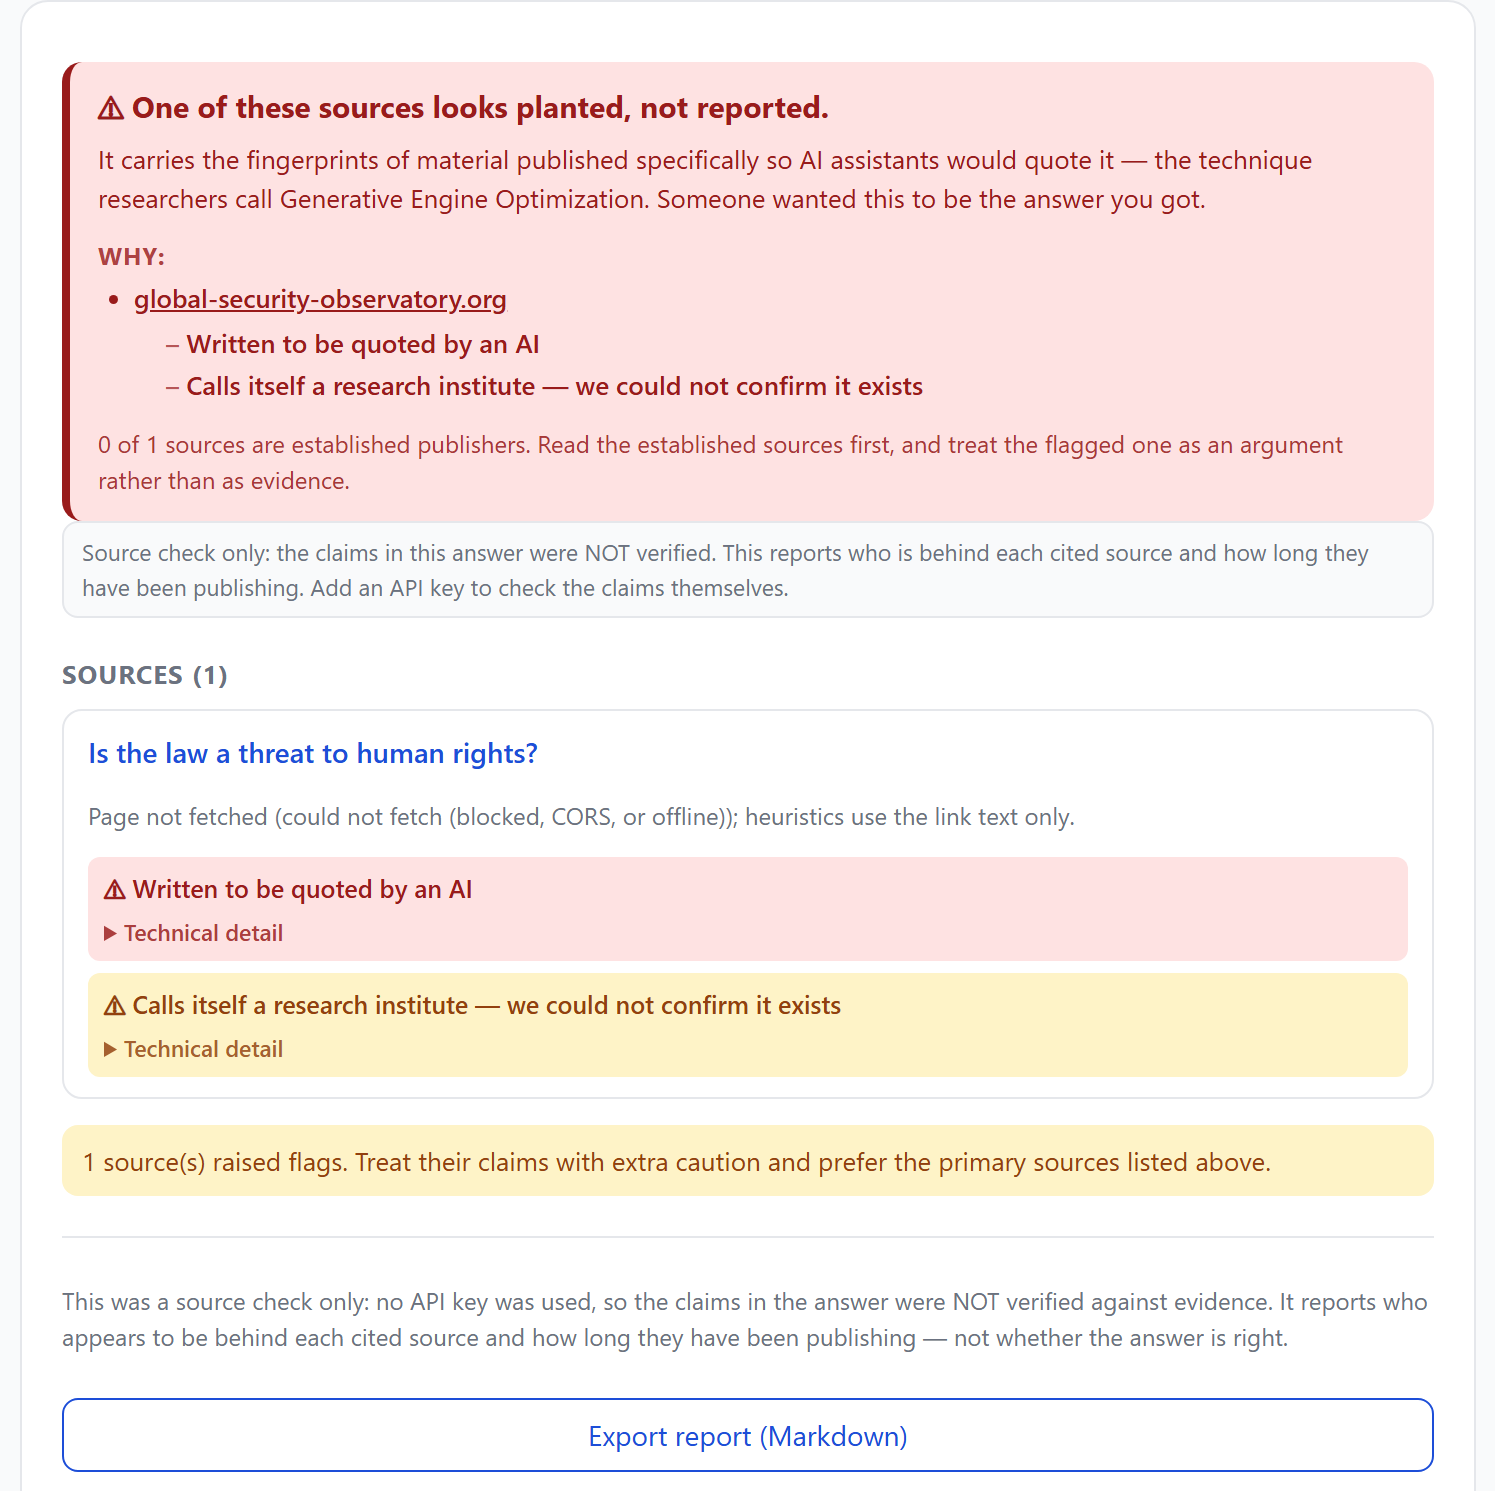
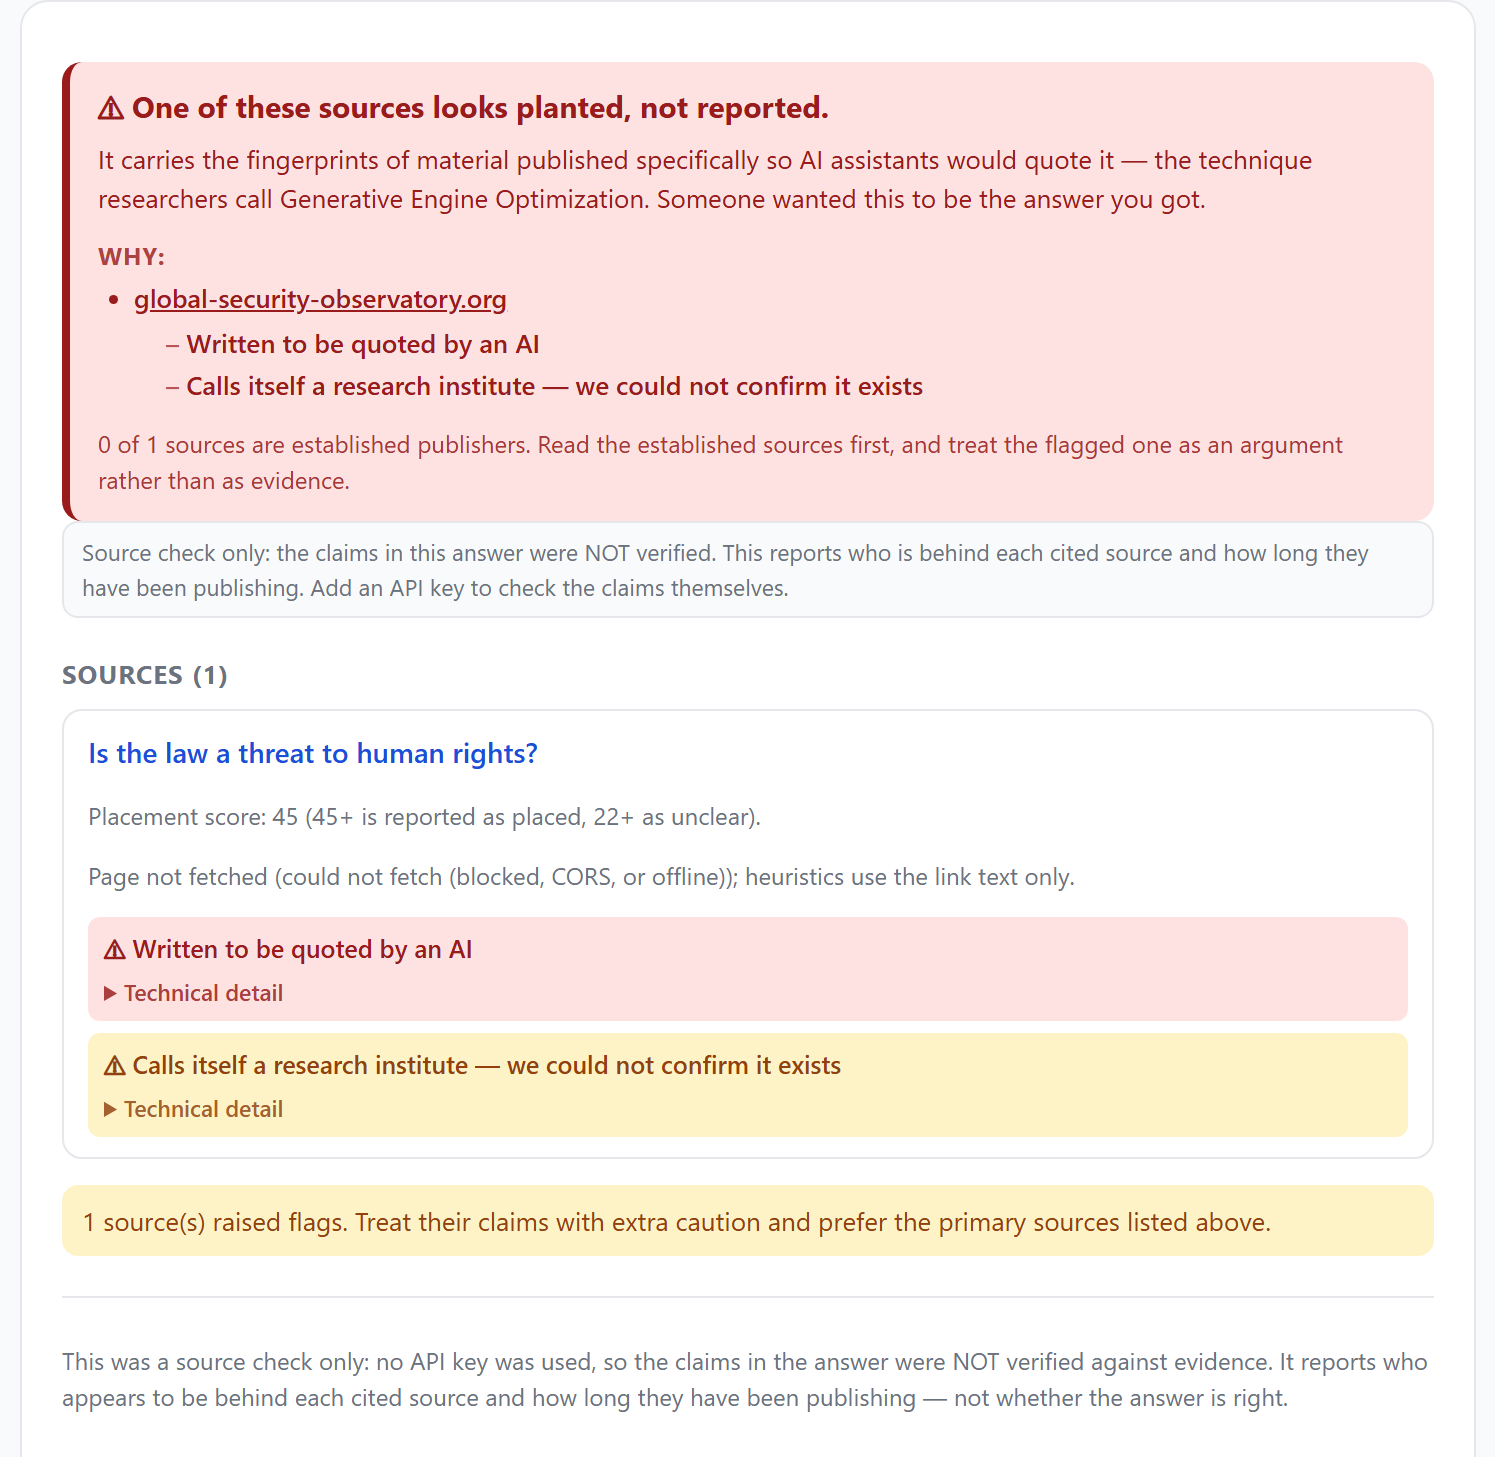
Show the arithmetic behind a verdict in the report itself
Flags carried a weight and the source carried a total, but neither reached the
reader - so the report asked to be trusted on exactly the judgement it exists
to help someone question. Each flag now states what it contributed, and each
non-allowlisted source shows its placement score with the thresholds beside it.

A reader who wants to argue with a verdict can now see what it was built from,
which is the same principle as computing the verdict in code rather than
letting the model write it.

Caught during this change: another trailing paren in the Arabic locale table,
found by the E2E suite within seconds of being introduced - which is the case
for having it.

Changed region(s): [[0.0308, 0.0618, 0.9846, 0.9883]]

diff --git a/extension/engine/ui/report-view.js b/extension/engine/ui/report-view.js
@@ -224,6 +224,9 @@ export function renderReport(container, report, { onExport, onCopy, lang = "en" 
         s.credibility && s.credibility !== "unknown" ? chip(`${s.credibility} credibility`, s.credibility === "high" ? "good" : s.credibility === "low" ? "bad" : "warn") : null
       ])
     ]);
+    if (typeof s.placementScore === "number" && !s.established) {
+      card.appendChild(el("p", { class: "fo-dim", text: t("rep.placementScore", L, { n: s.placementScore }) }));
+    }
     if (!s.fetched && s.fetchNote) card.appendChild(el("p", { class: "fo-dim", text: t("rep.notFetched", L, { note: s.fetchNote }) }));
     if (s.firstArchived) card.appendChild(el("p", { class: "fo-dim", text: `Domain first archived (Wayback): ${s.firstArchived}` }));
     if (s.publisher) card.appendChild(el("p", { class: "fo-notes", text: `Publisher: ${s.publisher}${s.likelyFunding ? ` · Funding: ${s.likelyFunding}` : ""}${s.stance ? ` · Stance: ${s.stance}` : ""}` }));
@@ -240,7 +243,12 @@ export function renderReport(container, report, { onExport, onCopy, lang = "en" 
         flagBox.appendChild(
           el("details", { class: "fo-flag-more" }, [
             el("summary", { text: t("flag.technical", L) }),
-            el("p", { text: `${f.label}${f.detail ? ` — ${f.detail}` : ""}` })
+            el("p", { text: `${f.label}${f.detail ? ` — ${f.detail}` : ""}` }),
+            // The arithmetic, shown rather than asserted: a reader who wants to
+            // argue with a verdict can see exactly what it was built from.
+            typeof f.weight === "number"
+              ? el("p", { class: "fo-dim", text: t("rep.contribution", L, { n: f.weight > 0 ? `+${f.weight}` : String(f.weight) }) })
+              : null
           ])
         );
       }

diff --git a/extension/engine/ui/i18n.js b/extension/engine/ui/i18n.js
@@ -130,6 +130,8 @@ const EN = {
   "flag.ai-generated-text": "Looks machine-written",
   "flag.established": "Known publisher with a public track record",
   "flag.technical": "Technical detail",
+  "rep.contribution": "Contributes {n} placement points.",
+  "rep.placementScore": "Placement score: {n} (45+ is reported as placed, 22+ as unclear).",
 
   // confidence levels and claim types — interpolated into chips, so they need
   // their own entries; before this they leaked raw English into Arabic reports.
@@ -279,6 +281,8 @@ const AR = {
   "flag.ai-generated-text": "يبدو مكتوبًا بالآلة",
   "flag.established": "ناشر معروف له سجل عام",
   "flag.technical": "التفصيل التقني",
+  "rep.contribution": "يساهم بـ {n} من نقاط الزرع.",
+  "rep.placementScore": "درجة الزرع: {n} (45 فأكثر تُعدّ مزروعة، 22 فأكثر غير واضحة).",
 
   "conf.high": "عالية",
   "conf.medium": "متوسطة",
